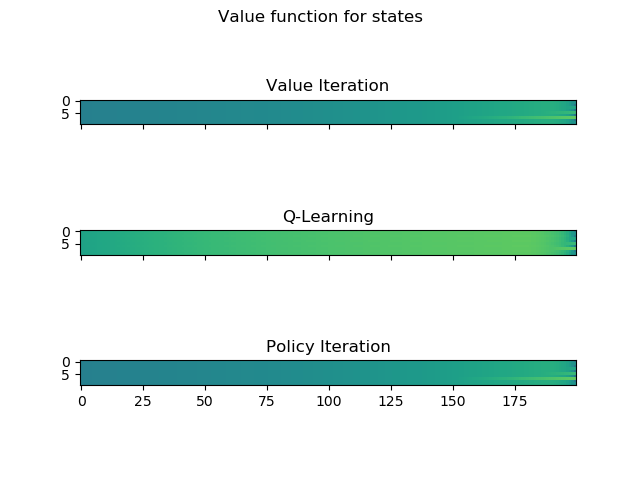
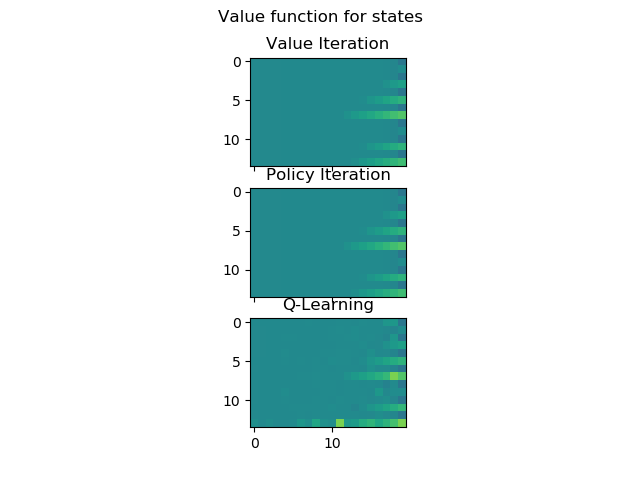
fix model transition probabilities for step

Changed region(s): [[0.0938, 0.0625, 0.9062, 0.9375]]

diff --git a/example_usage.py b/example_usage.py
@@ -3,13 +3,9 @@ from rlagent import QLAgent
 import matplotlib.pyplot as plt
 import numpy as np
 
-street_length = 200
+street_length = 20
 park_probas = {
      0: {
-        'pexist': 0.25,
-        'poccupied': 0.2,
-        },
-     4: {
         'pexist': 0.25,
         'poccupied': 0.2,
         },
@@ -25,21 +21,35 @@ park_probas = {
         'pexist': 0.03,
         'poccupied': 0.9,
         },
+     4: {
+        'pexist': 0.21,
+        'poccupied': 0.2,
+        },
+     5: {
+        'pexist': 0.03,
+        'poccupied': 0.9,
+        },
+     6: {
+        'pexist': 0.01,
+        'poccupied': 0.92,
+        },
     }
 park_costs = {
     0: 7.,
-    4: 7.,
     1: 5.,
     2: 3.,
     3: 1.,
-}
-walk_cost = 0.1
+    4: 7.,
+    5: 3.,
+    6: 2.,
+    }
+walk_cost = 0.8
 drive_cost = 0.1
 katoto_cost = 10.0
-random_accident_proba = 1e-6
+random_accident_proba = 0.0
 random_accident_cost = 90.0
 allow_goback = False
-pkatoto_full = 0.4
+pkatoto_full = .1
 
 if __name__ == '__main__':
     env = StreetParking(
@@ -61,11 +71,11 @@ if __name__ == '__main__':
         print("Value Iteration")
         vi = ValueIterationWithers(env.transition, env.rewards, discount=0.99, max_iter=1000)
         vi.run()
-        arr = vi._arr
+        arr = vi.convergence_array
         print("Policy Iteration")
         pi = PolicyIterationWithers(env.transition, env.rewards, discount=0.99, max_iter=1000)
         pi.run()
-        arrp = pi._arr
+        arrp = pi.convergence_array
     except (ImportError, NameError) as e:
         raise e
         vi, arr = None, []
@@ -84,8 +94,8 @@ if __name__ == '__main__':
     plt.close()
 
     print('Q-Learning')
-    agent = QLAgent(gamma=1., epsilon=0.99, alpha=0.95, epsilon_shrink=0.9999, alpha_shrink=0.9999)
-    agent.fit(env, iters=90000)
+    agent = QLAgent(gamma=0.99, epsilon=0.3, alpha=1, epsilon_shrink=0.9999, alpha_shrink=0.9999, max_episode_len=None)
+    agent.fit(env, iters=9000)
 
     plt.plot(agent._abs_update_mean)
     plt.xlabel("Iterations")
@@ -96,14 +106,14 @@ if __name__ == '__main__':
     fig, ax = plt.subplots(3, 1, sharex=True)
     if pymdptoolbox_installed:
         ax[0].imshow(np.array(vi.V[:-3]).reshape(env.street_length, env._num_park_states).T, vmin=-20, vmax=5)
-        ax[2].imshow(np.array(pi.V[:-3]).reshape(env.street_length, env._num_park_states).T, vmin=-20, vmax=5)
+        ax[1].imshow(np.array(pi.V[:-3]).reshape(env.street_length, env._num_park_states).T, vmin=-20, vmax=5)
     else:
         pass
 
     ax[0].set_title('Value Iteration')
-    ax[2].set_title('Policy Iteration')
-    ax[1].imshow(agent.Qsa.max(axis=1)[:-3].reshape(env.street_length, env._num_park_states).T, vmin=-20, vmax=5)
-    ax[1].set_title('Q-Learning')
-    ax[1].set_xlabel('')
+    ax[1].set_title('Policy Iteration')
+    ax[2].imshow(agent.Qsa.max(axis=1)[:-3].reshape(env.street_length, env._num_park_states).T, vmin=-20, vmax=5)
+    ax[2].set_title('Q-Learning')
+    ax[2].set_xlabel('')
     fig.suptitle("Value function for states")
     plt.savefig('example-run-output/example-run-values.png')

diff --git a/iterators.py b/iterators.py
@@ -10,32 +10,6 @@ _MSG_STOP_EPSILON_OPTIMAL_VALUE = "Iterating stopped, epsilon-optimal value " \
 _MSG_STOP_UNCHANGING_POLICY = "Iterating stopped, unchanging policy found."
 
 
-class ValueIteration(mdptoolbox.mdp.ValueIteration):
-    def __init__(self,*args, **kwargs):
-        super().__init__(*args, **kwargs)
-        self.max_iter = kwargs['max_iter']
-        self.args = args
-        self.kwargs = kwargs
-        del kwargs['max_iter']
-        del kwargs['initial_value']
-        # self.kwargs['max_iter'] = 1
-        self._abs_diff_mean = []
-
-    def run(self):
-        iterator = mdptoolbox.mdp.ValueIteration(*self.args, **self.kwargs)
-        iterator.run()
-        Vi = np.array(iterator.V)
-        for i in range(self.max_iter):
-            iterator = mdptoolbox.mdp.ValueIteration(*self.args, **self.kwargs, initial_value=Vi.tolist(), max_iter=1)
-            iterator.run()
-            V = np.array(iterator.V)
-            self._abs_diff_mean.append(np.abs(Vi - V).mean())
-            Vi = V
-        # import pdb; pdb.set_trace()
-        self.V = V
-        self.policy = iterator.policy
-
-
 def _printVerbosity(iteration, variation):
     if isinstance(variation, float):
         print("{:>10}{:>12f}".format(iteration, variation))
@@ -46,6 +20,17 @@ def _printVerbosity(iteration, variation):
 
 
 class PolicyIterationWithers(mdptoolbox.mdp.PolicyIteration):
+    """mdptoolbox.mdp.PolicyIteration object with convergence array.
+
+    See :mdptoolbox.mdp.PolicyIteration: for documentation.
+    """
+
+    @property
+    def convergence_array(self):
+        if not hasattr(self, '_arr'):
+            return []
+        else:
+            return self._arr
 
     def run(self):
         # Run the policy iteration algorithm.
@@ -107,6 +92,18 @@ def getSpan(W):
 
 
 class ValueIterationWithers(mdptoolbox.mdp.ValueIteration):
+    """mdptoolbox.mdp.ValueIteration object with convergence array.
+
+    See mdptoolbox.mdp.ValueIteration for documentation.
+    """
+
+    @property
+    def convergence_array(self):
+        if not hasattr(self, '_arr'):
+            return []
+        else:
+            return self._arr
+
     def run(self):
         # Run the value iteration algorithm.
         self._arr = []

diff --git a/rlagent.py b/rlagent.py
@@ -34,14 +34,20 @@ class SarsaAgent:
     Arguments:
     --------------
     gamma   : float, default 1.0
-              Discount factor
+        Discount factor
     alpha   : float, default 0.25
-              Learning rate
+        Learning rate
     epsilon : float or None, default None
-              Stochastic exploration move percentage. Model's greediness can be
-              defined by 1 - epsilon.
+        Stochastic exploration move percentage. Model's greediness can be
+        defined by 1 - epsilon.
     seed    : int or None, default None
-              Seed value to be passed on to environment and numpy
+        Seed value to be passed on to environment and numpy
+    epsilon_shrink : float, default 1.0
+        Multiply epsilon by this value at the end of each episode
+    alpha_shrink : float, default 1.0
+        Multiply alpha (learning rate) by this value at the end of each episode
+    max_episode_len : int or None, default None
+        Maximum length of an episode. Defaults to infinity.
 
     Notes:
     ---------------
@@ -196,14 +202,20 @@ class QLAgent(SarsaAgent):
     Arguments:
     --------------
     gamma   : float, default 1.0
-              Discount factor
+        Discount factor
     alpha   : float, default 0.25
-              Learning rate
+        Learning rate
     epsilon : float or None, default None
-              Stochastic exploration move percentage. Model's greediness can be
-              defined by 1 - epsilon.
+        Stochastic exploration move percentage. Model's greediness can be
+        defined by 1 - epsilon.
     seed    : int or None, default None
-              Seed value to be passed on to environment and numpy
+        Seed value to be passed on to environment and numpy
+    epsilon_shrink : float, default 1.0
+        Multiply epsilon by this value at the end of each episode
+    alpha_shrink : float, default 1.0
+        Multiply alpha (learning rate) by this value at the end of each episode
+    max_episode_len : int or None, default None
+        Maximum length of an episode. Defaults to infinity.
 
     Notes:
     --------------

diff --git a/streetv2.py b/streetv2.py
@@ -39,9 +39,21 @@ class StreetParking(StreetModel):
         self.done = False
         # parks, probas = np.array([[k, v['pexist']] for k, v in sorted(self.park_probas.items())]).T.tolist()
         # self.state = np.random.choice()
-        self.state = np.random.randint(0, self._num_park_states + 1)
+        # self.state = np.random.randint(0, self._num_park_states + 1)
+        self.state = self._select_random_parking_state()
         self._state_length = 0
         return self.state
+
+    def _select_random_parking_state(self):
+        one_row = []
+        for park_type, probas in self.park_probas.items():
+            pexist, poccupied = probas['pexist'], probas['poccupied']
+            # one_row += list(probas)
+            one_row += [
+                (1. - self.random_accident_proba) * pexist * poccupied,
+                (1. - self.random_accident_proba) * pexist * (1. - poccupied),
+                ]
+        return np.random.choice(np.arange(self._num_park_states), p=one_row)
 
     def _move_step(self):
         disaster = np.random.random() <= self.random_accident_proba
@@ -66,7 +78,7 @@ class StreetParking(StreetModel):
         else:
             self._state_length += 1
             reward = -self.drive_cost
-            self.state = (self._state_length * self._num_park_states) + np.random.randint(0, self._num_park_states)
+            self.state = (self._state_length * self._num_park_states) + self._select_random_parking_state()
         return self.state, reward, self.done
 
     def step(self, action):
